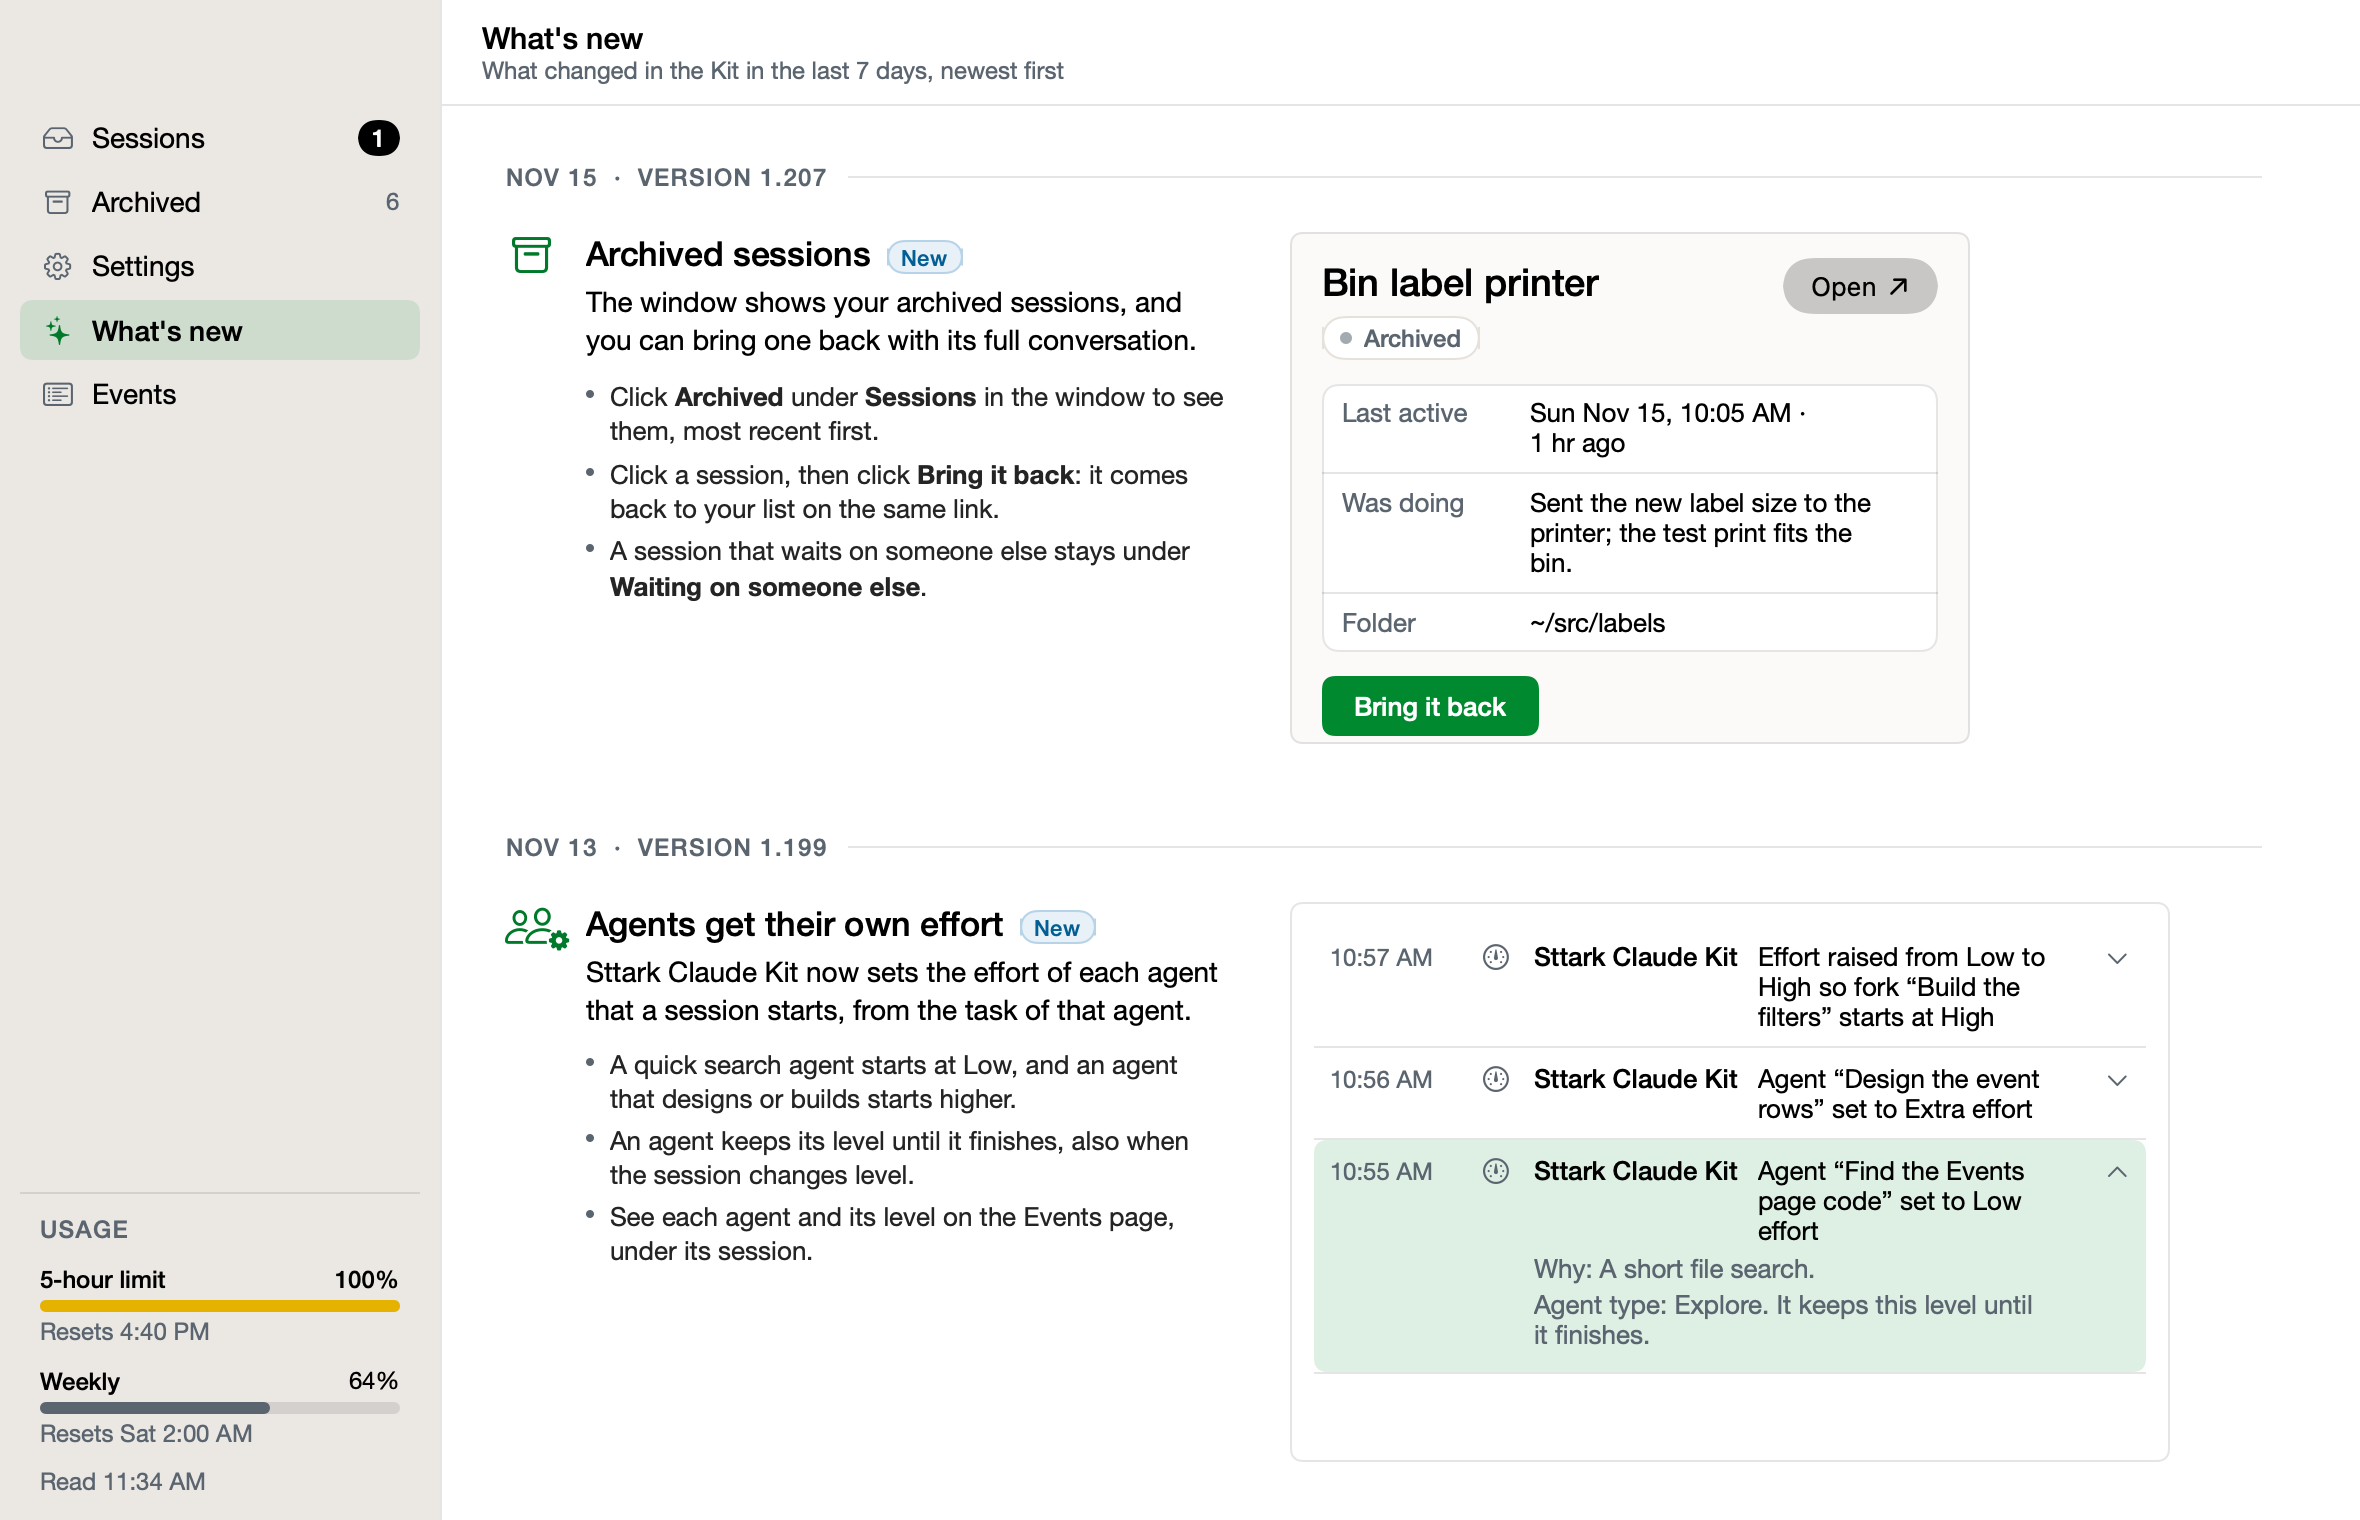
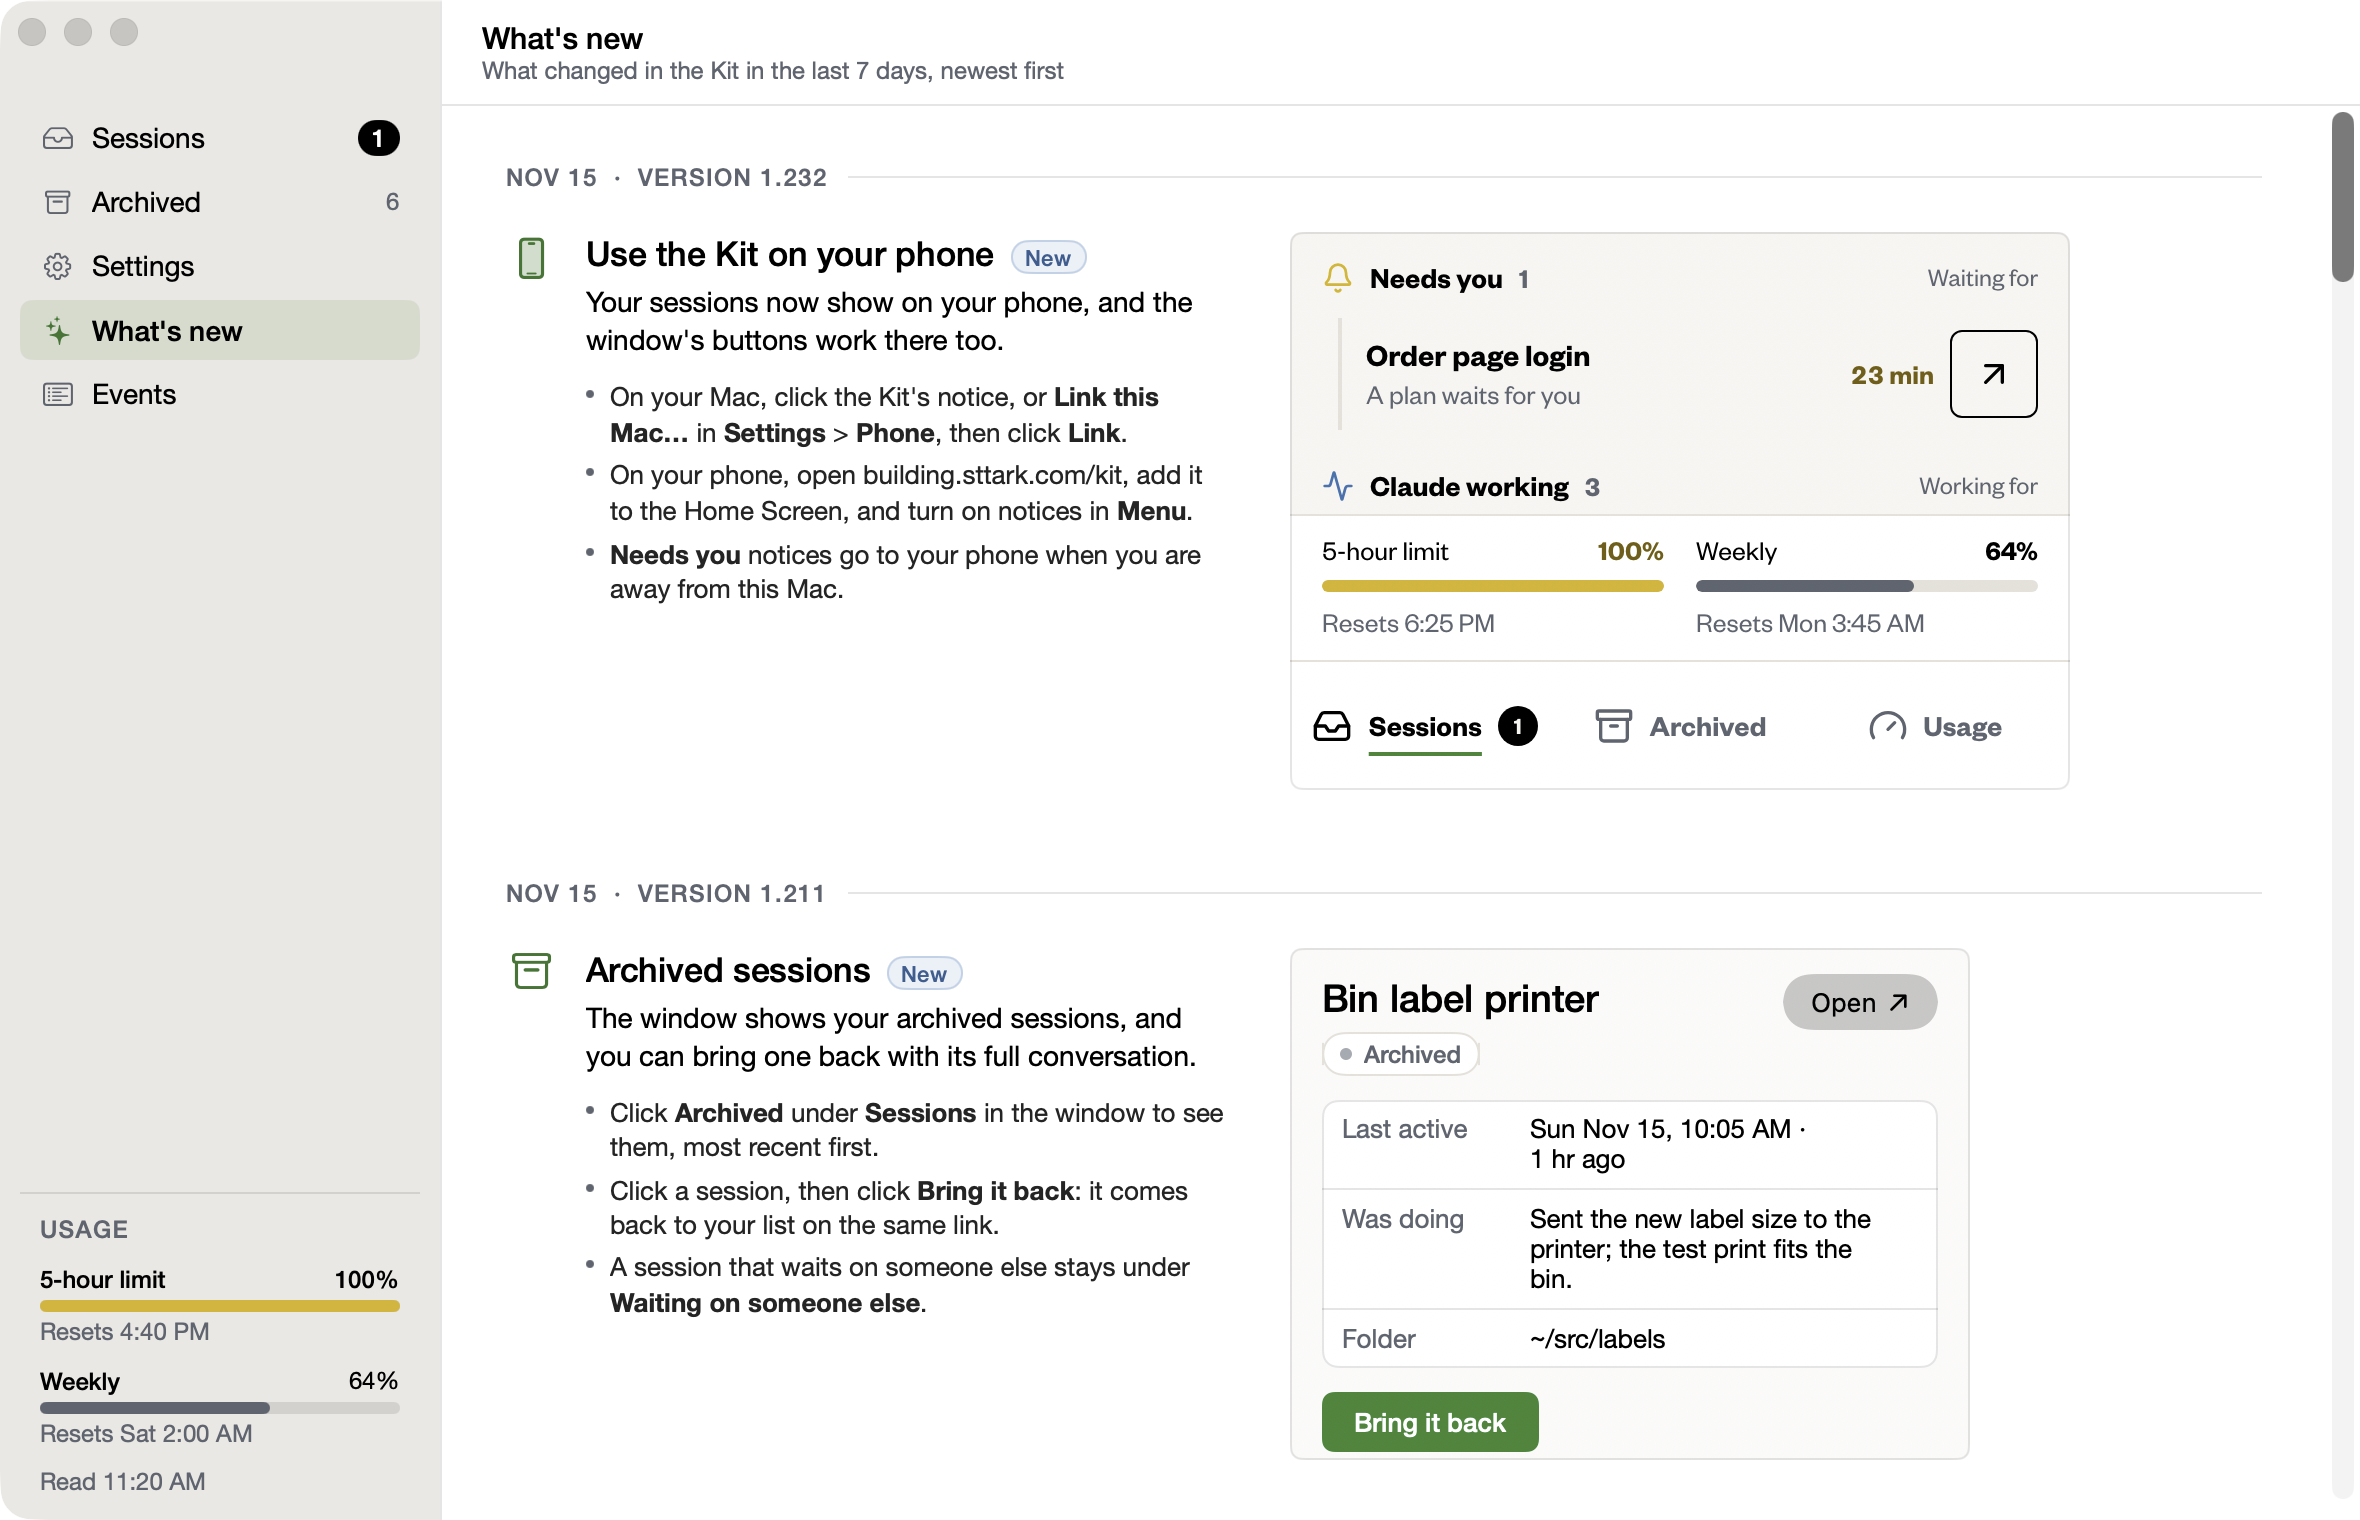
Kit on your phone: the What's new note
The note, with a crop of the real phone pages (Sessions with its open
button, the usage and the bottom tabs), light and dark, drawn from the
pages run locally with the fake Mac. docs/whats-new.png and
docs/window-news.png drawn again with it.

diff --git a/whats-new/kit-on-your-phone.md b/whats-new/kit-on-your-phone.md
@@ -1,0 +1,13 @@
+# Use the Kit on your phone
+
+**Icon:** iphone
+
+**Kind:** New
+
+Your sessions now show on your phone, and the window's buttons work there too.
+
+- On your Mac, click the Kit's notice, or **Link this Mac…** in **Settings** > **Phone**, then click **Link**.
+- On your phone, open building.sttark.com/kit, add it to the Home Screen, and turn on notices in **Menu**.
+- **Needs you** notices go to your phone when you are away from this Mac.
+
+![The Sessions page on a phone: Needs you with one session, how long it waited and its button to open it in Claude; the 5-hour and weekly usage; and the Sessions, Archived and Usage tabs.](kit-on-your-phone.png)
